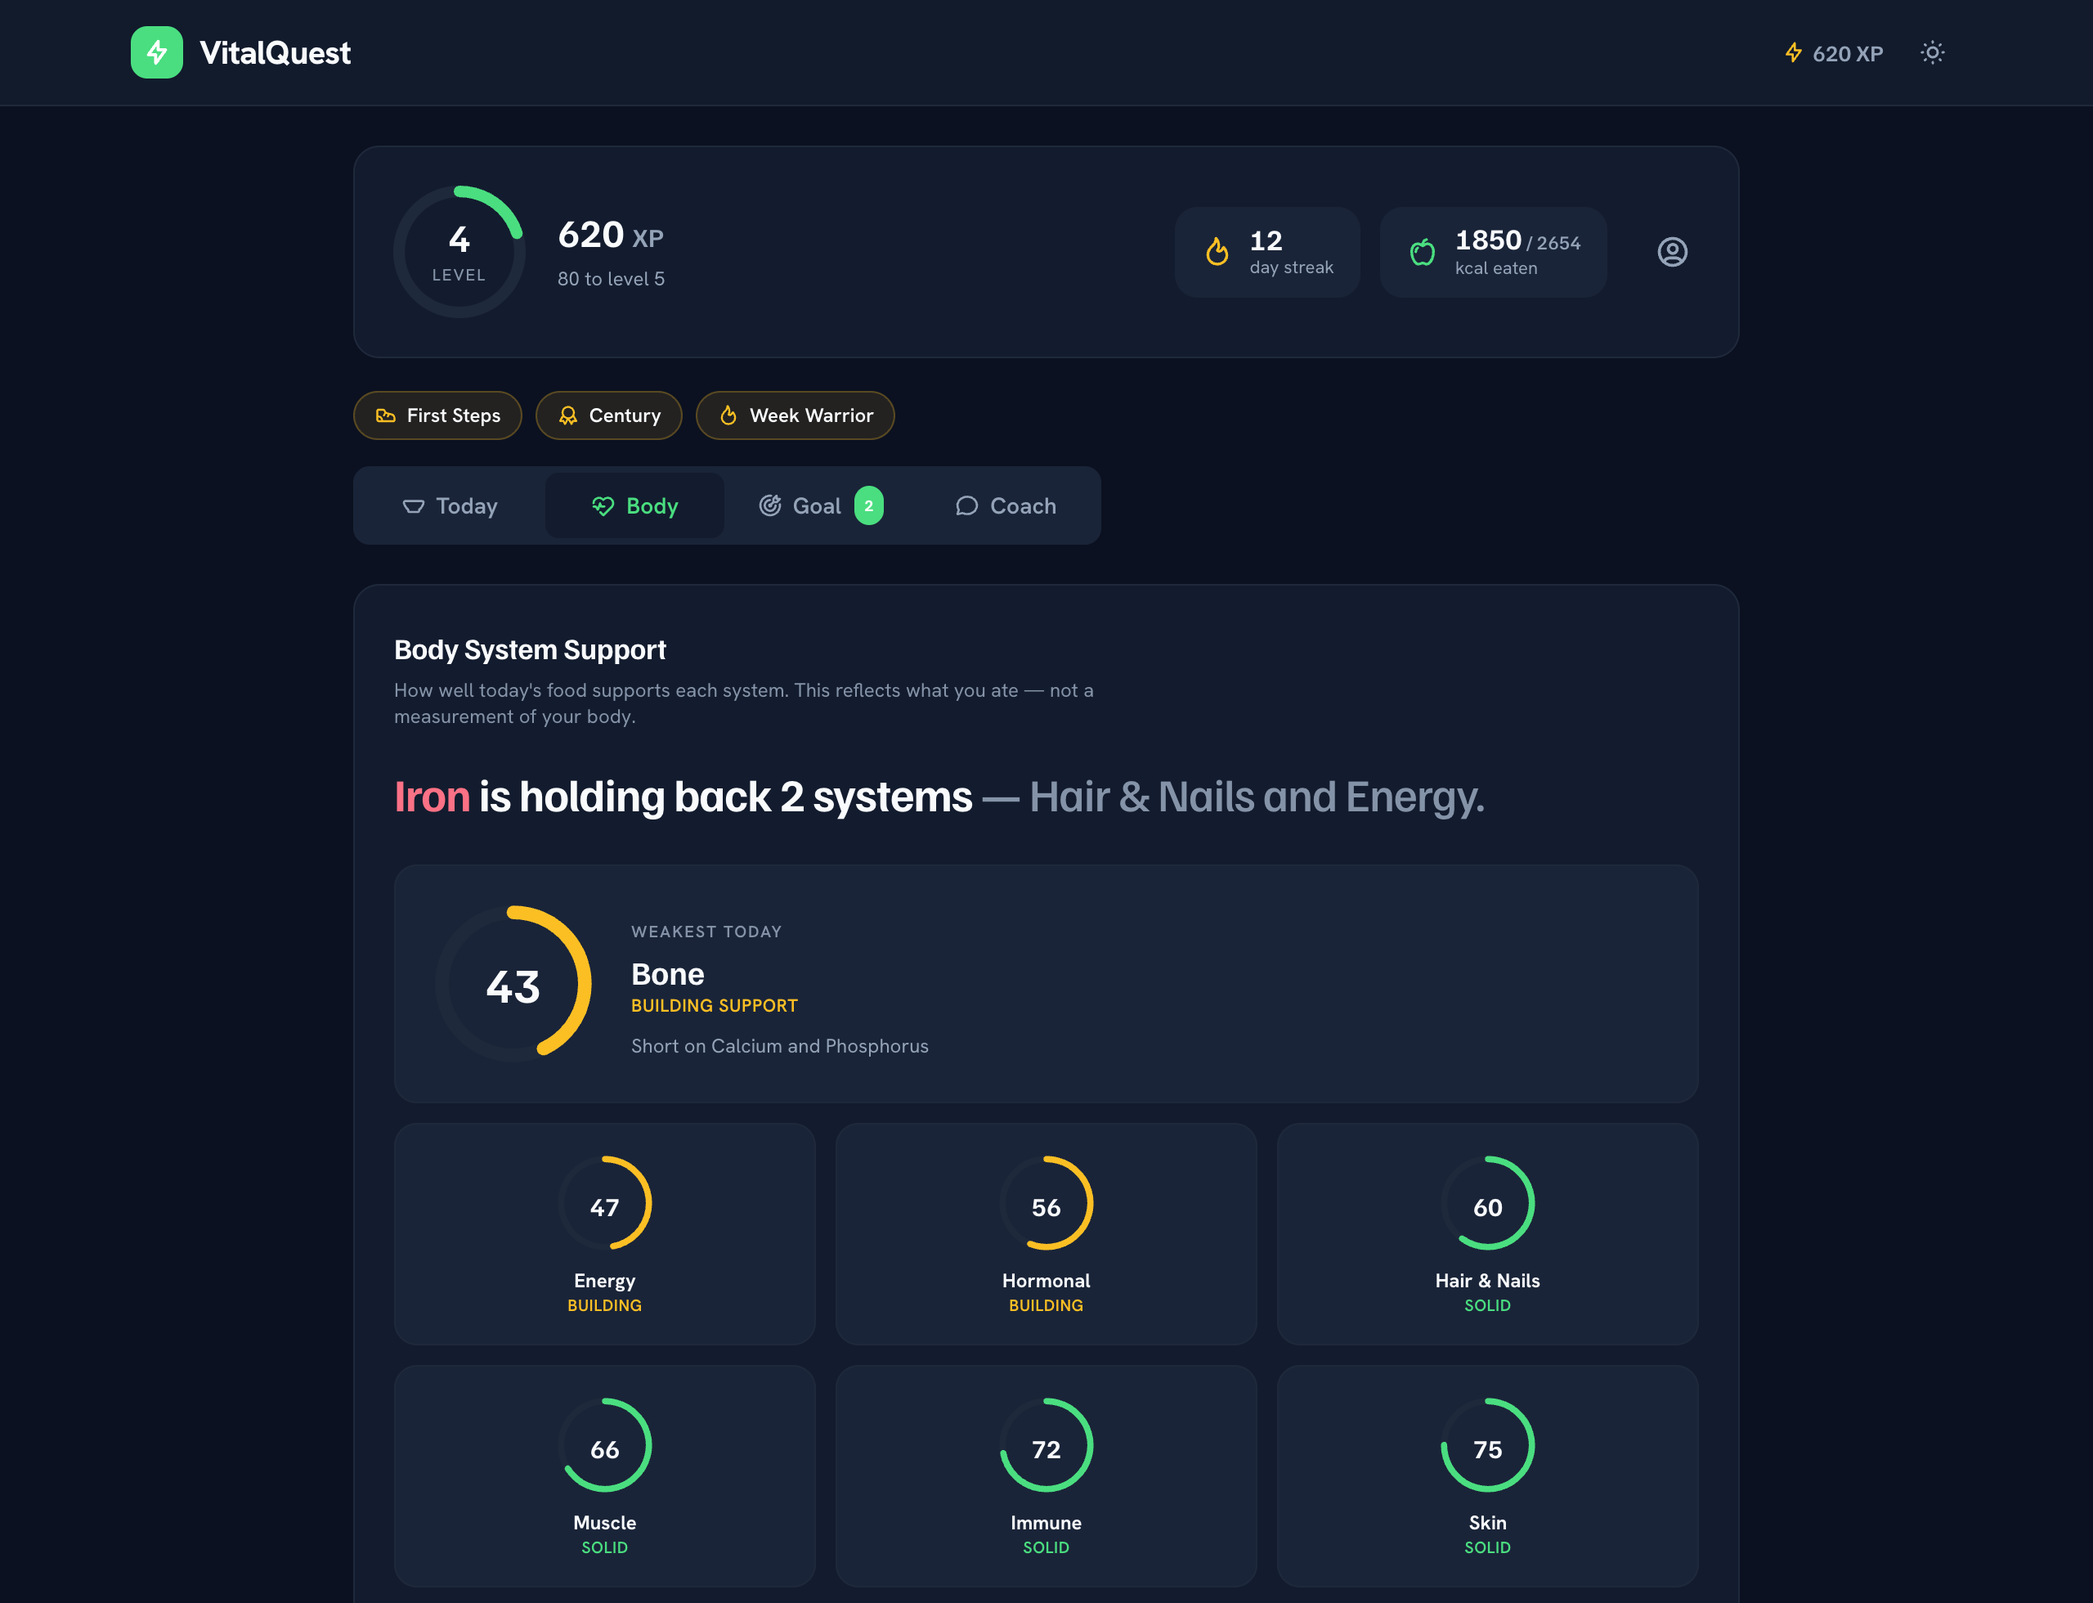
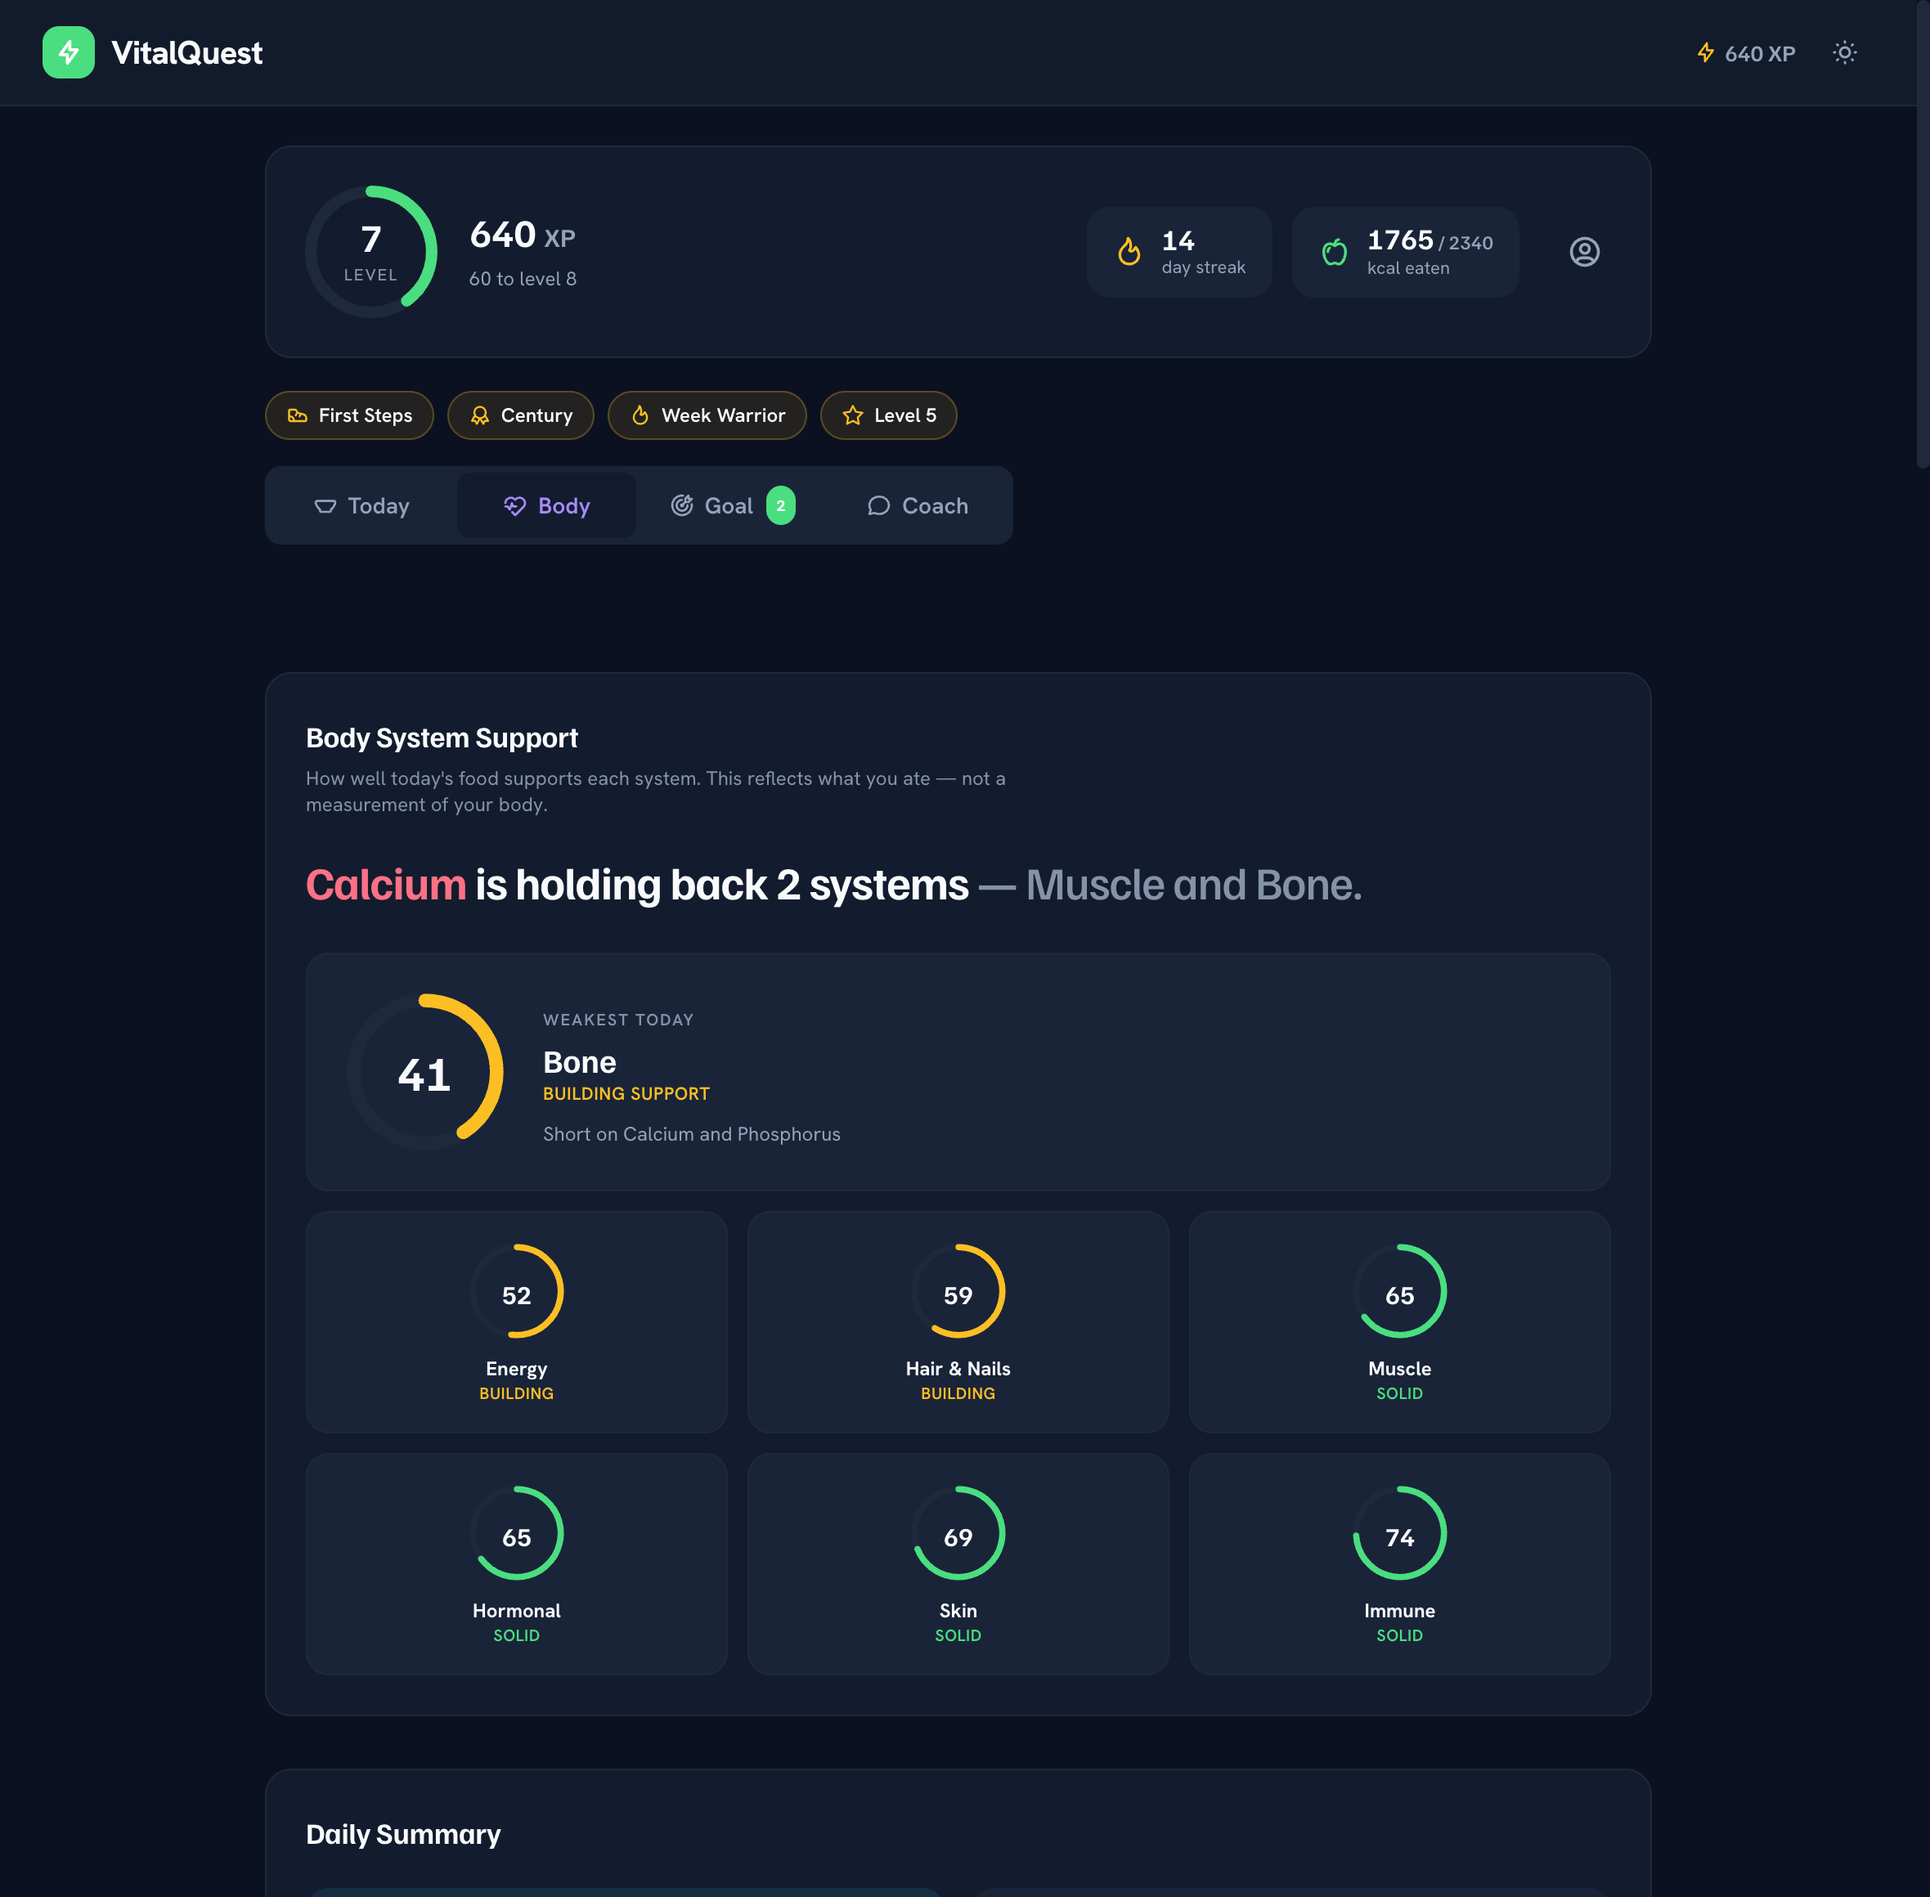
docs: refresh screenshots and cover the features added since
Repo tidy-up before sharing. No source changes.

**Screenshots were a design generation out of date.** They were captured
on 18 Aug; the signature accent moved from green to violet on 28 Aug, so
every shot showed primary buttons in the old colour. They also predate
custom recipes and goal-driven calorie targets entirely. Recaptured all
three at 2x, now showing the current accent, the Recipes entry point and
the "Goal-adjusted · 421 kcal below maintenance" line on Today.

Worth noting for whoever seeds data next: the first recapture was wrong
and I nearly shipped it. The seed used activityLevel 'Moderately Active'
where the enum is 'Moderately Active (3-5 days/week)', so it silently
fell through to the sedentary multiplier and rendered a maintenance
figure several hundred kcal too low. Enum values are matched by string;
a near-miss fails quietly.

**README covered neither feature shipped since it was last touched.**
Custom recipes now appear in the Today row and get their own section
explaining why the batch arithmetic is in code rather than the prompt;
kg/lbs is named in the feature line, including that storage stays kg and
conversion happens only at the edges.

**The surface inventory read as an in-progress working file** — it opened
"Nothing moves until this file is complete" for a migration finished a
month ago. Reframed as what it now is: a record of how the restructure
was done and the one surface the walk caught.
[…]

diff --git a/README.md b/README.md
@@ -30,7 +30,7 @@ Four destinations, each answering one question.
 
 | | |
 |---|---|
-| **Today** · *what did I eat?* | Type "2 eggs and a slice of toast" — or say it — and Claude parses it into calories, macros and 28 micronutrients against USDA values. Water, sunlight, favourites and a meal builder live here too. |
+| **Today** · *what did I eat?* | Type "2 eggs and a slice of toast" — or say it — and Claude parses it into calories, macros and 28 micronutrients against USDA values. Water, sunlight, favourites, a meal builder and your **saved recipes** live here too. |
 | **Body** · *what did it do?* | Seven body systems scored on how well today's intake supports them: hair & nails, skin, muscle, hormonal, energy, immune, bone. Because they share nutrients, the tab leads with the one gap holding the most of them back. |
 | **Goal** · *where am I heading?* | A target weight and date turn into today's calorie and protein numbers, plus an on/off-track verdict. Daily quests, weight and exercise logging, and trend charts sit alongside. |
 | **Coach** · *why?* | A scoped AI coach anchored to a real finding from your day, not a blank chat box. |
@@ -45,13 +45,19 @@ The seven scores are computed in `utils/bodySystems.ts` — pure, deterministic,
 
 Because the systems overlap (vitamin D feeds hair, muscle, hormones and bone; zinc feeds hair, skin and hormones), one shortfall usually drags several scores down at once. `computeLimitingNutrients()` finds those shared constraints, which is what turns a dashboard into an instruction.
 
+### Recipes: bake once, log a slice
+
+List everything that went into a batch, say how many servings it makes, and the app works out one serving — with the same 28 micronutrients any other food gets, because it reuses the same parsing path.
+
+The arithmetic is deliberately **not** the model's job. It is asked only what each ingredient contains; summing the batch and dividing by servings happens in `utils/recipes.ts`. That is a lesson this codebase paid for once: told to scale "5 eggs", a model overshot by 4×. A bad divisor would be worse, because it would ride along on every future log of that recipe.
+
 ### Goals refuse unsafe targets
 
 The eating-disorder guardrails live in `utils/goalProjection.ts` as pure functions — **not in a prompt**. Targets below a healthy BMI, trajectories faster than ~1% of bodyweight per week, and deficits that push intake under 1200 kcal are refused outright, with a safe alternative offered where one exists. The coach inherits a system that already refuses, and adds a second client-side intent screen that runs *before* any network call. A calorie tracker with an AI coach has real exposure here, and a prompt is the weakest possible place for the highest-severity rule.
 
 ### Also
 
-Natural-language and **voice** food logging · XP, levels, daily quests and 8 badges · water, sunlight, weight and exercise tracking · PDF export · light and dark themes, both tuned to WCAG AA.
+Natural-language and **voice** food logging · weights in **kg or lbs** (stored in kg, converted only at the edges) · XP, levels, daily quests and 8 badges · water, sunlight, weight and exercise tracking · PDF export · light and dark themes, both tuned to WCAG AA.
 
 ## Tech stack
 

diff --git a/docs/v2-surface-inventory.md b/docs/v2-surface-inventory.md
@@ -1,8 +1,15 @@
-# v2 Surface Inventory
+# v2 Surface Inventory — record of the navigation restructure
 
-Every reachable surface in v1, and where it lands in v2. **Nothing moves until this
-file is complete**, because a dropped surface produces no error, no failing test,
-and no visual glitch — the only thing that catches one is walking this list.
+*Completed. Kept as a record of how the restructure was done and what it caught.*
+
+When VitalQuest went from seven navigation targets to four, this file was written
+**before** anything moved: every reachable surface in v1, mapped to where it would
+land in v2 or marked as a deliberate cut.
+
+The reason for writing it first is the whole point of the document — **a dropped
+surface produces no error, no failing test, and no visual glitch.** Nothing catches
+one except walking the list against the running app. One surface was dropped
+anyway; the walk is what found it (see *Result of the walk* at the end).
 
 **v1:** 4 tabs + 3 sub-tabs = 7 navigation targets.
 **v2:** 4 tabs + a profile sheet.
